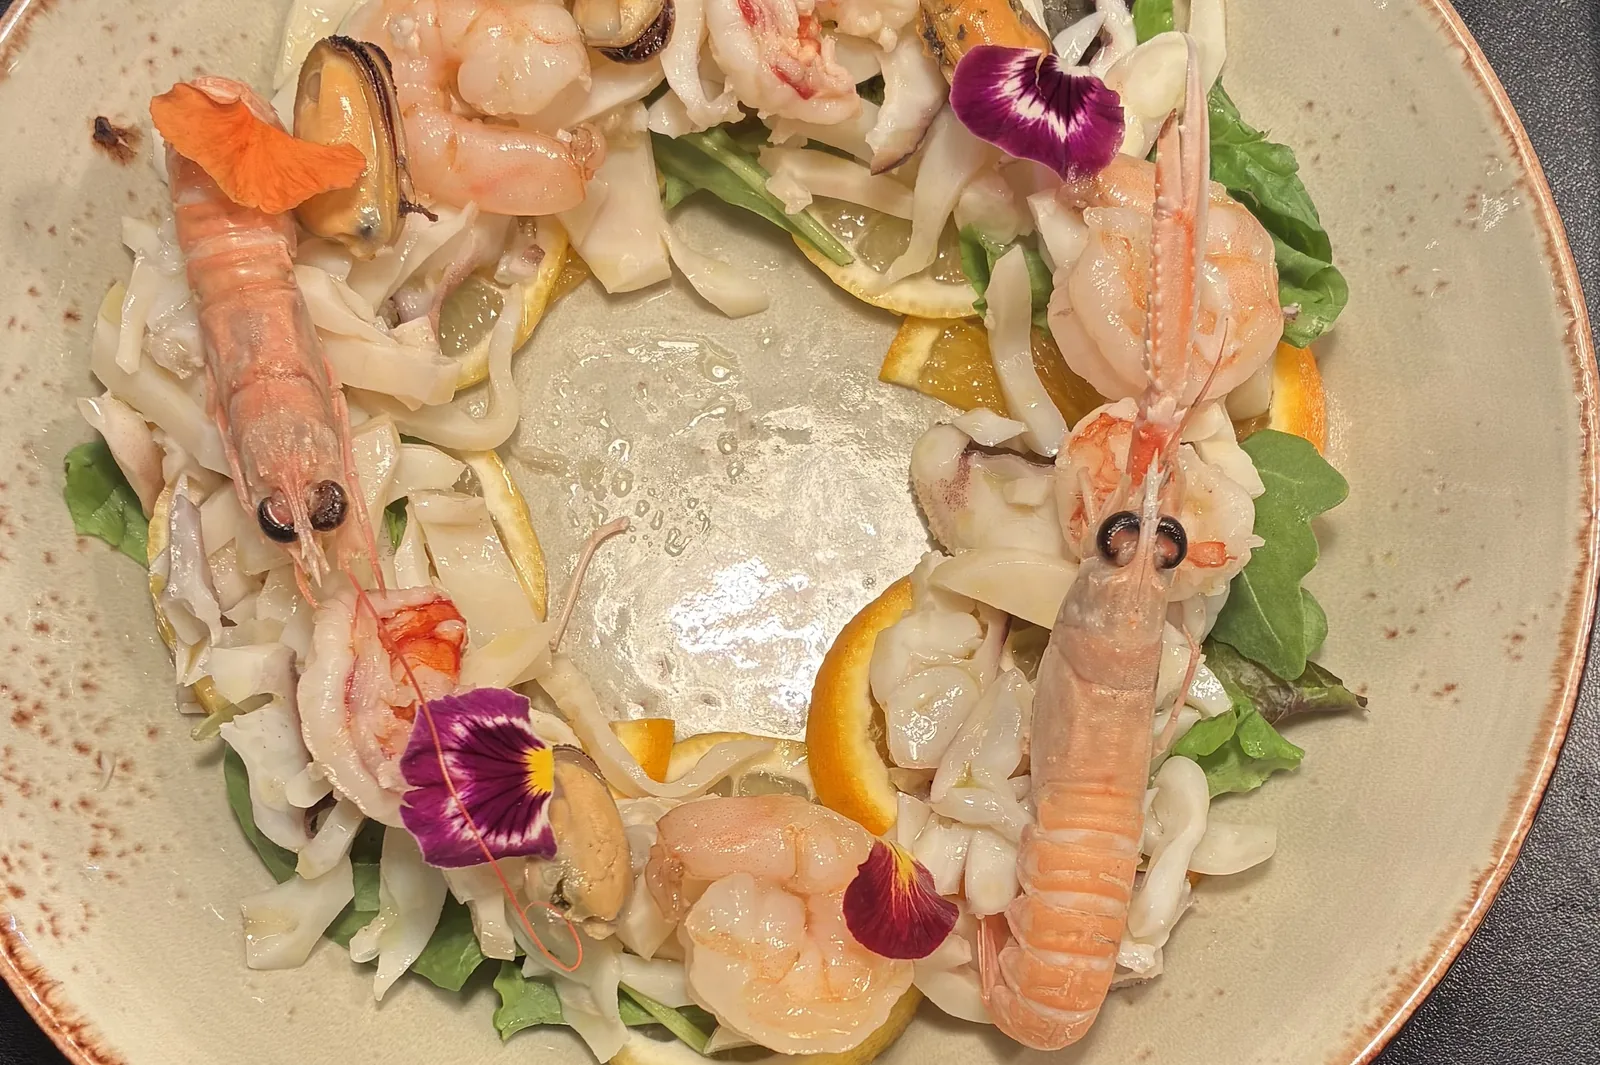
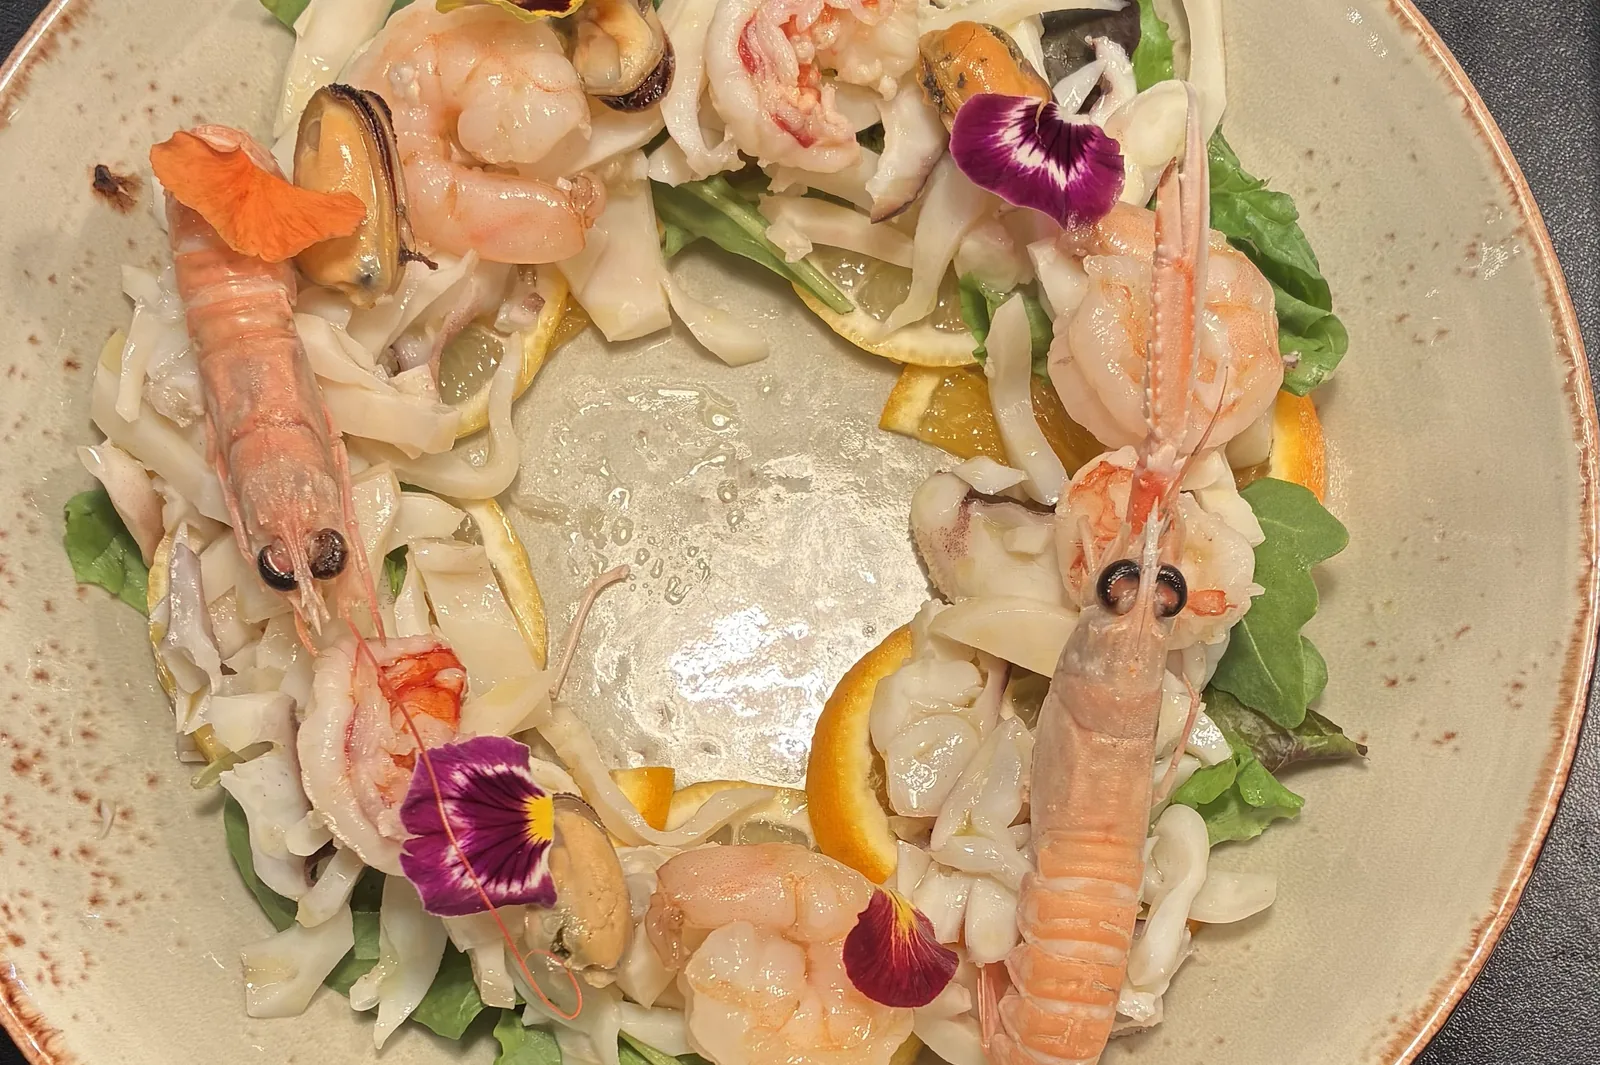
Aggiornato carosello: centrati piatti antipasto e chitarra, aggiunta nuova foto salmone marinato e rimosse immagini obsolete

diff --git a/index.html b/index.html
@@ -75,13 +75,10 @@
               <img src="assets/images/carosello/tataki-di-tonno-al-sesamo.webp" alt="Tataki di tonno in crosta di sesamo con salse gourmet">
               <img src="assets/images/carosello/tagliolini-agli-scampi.webp" alt="Tagliolini freschi agli scampi e crostacei">
               <img src="assets/images/carosello/antipasto-imperiale-di-mare.webp" alt="Antipasto imperiale di frutti di mare con scampi e fiori eduli">
-              <img src="assets/images/carosello/tartare-di-tonno.webp" alt="Tartare di tonno con lime e salse gourmet">
-              <img src="assets/images/carosello/pesce-spada-grigliato.webp" alt="Trancio di pesce spada grigliato con rucola e pomodorini">
               <img src="assets/images/carosello/chitarra-allo-scampo.webp" alt="Spaghetti alla chitarra allo scampo reale">
-              <img src="assets/images/carosello/salmone-marinato-con-lime.webp" alt="Salmone marinato con rucola e lime">
+              <img src="assets/images/carosello/salmone-marinato-con-lime.webp" alt="Salmone marinato con lime e fiori eduli">
               <img src="assets/images/carosello/carbonara-di-mare.webp" alt="Pasta alla carbonara di mare con guanciale croccante">
               <img src="assets/images/carosello/tagliata-di-manzo.webp" alt="Tagliata di manzo con rucola, pomodorini e scaglie di grana">
-              <img src="assets/images/carosello/insalata-di-mare.webp" alt="Insalata di mare gourmet">
               <img src="assets/images/carosello/carpaccio-di-salmone.webp" alt="Carpaccio e rose di salmone fresco con lime">
               <img src="assets/images/carosello/sala-interna-ristorante.webp" alt="Sala interna elegante di Cocktail Kitchen">
               <img src="assets/images/carosello/dehor-esterno-tavoli.webp" alt="Dehor esterno accogliente a Pescara">
